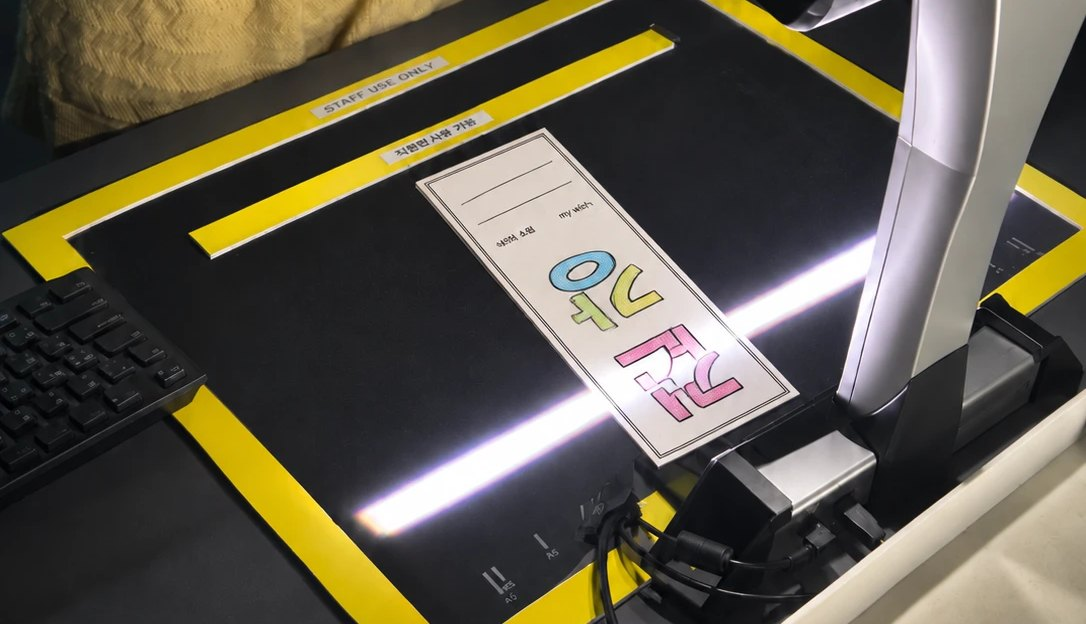
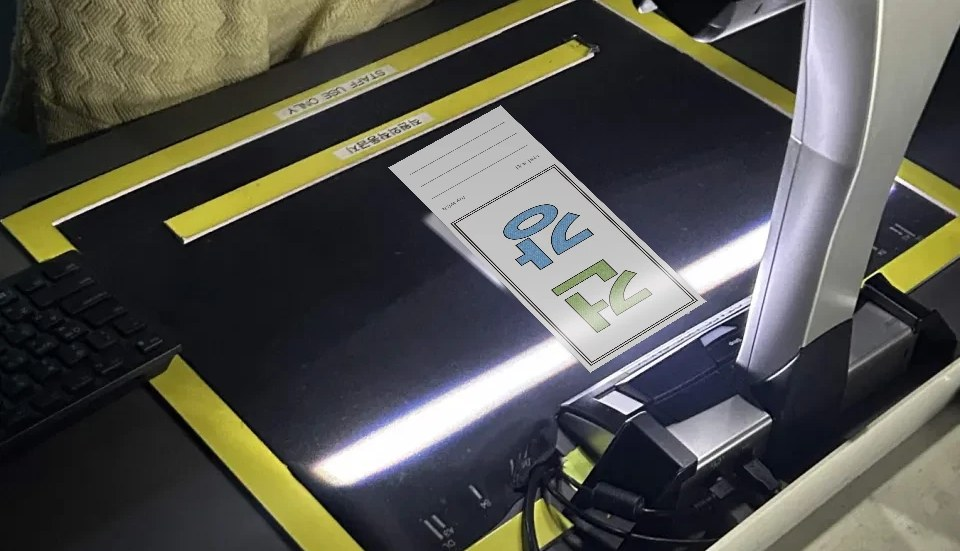
낙화원 스캔 사진 교체

diff --git a/index.html b/index.html
@@ -701,7 +701,7 @@ footer h2{font-size:clamp(40px,6vw,72px);font-weight:700;letter-spacing:-.035em;
     <div class="side">
       <div class="media"><img src="img/nakhwa/hero.jpg?v=3" alt="낙화원 실제 전시 공간"></div>
       <p class="cap">실제 전시 공간 · K-컬처 뮤지엄 3관 · 13.8m × 11.2m × 약 5.8m · 벽면·바닥 프로젝션 · 공간 비주얼 황혜린</p>
-      <div class="media"><img src="img/nakhwa/scan.jpg" alt="소원지 스캔 장면"></div>
+      <div class="media"><img src="img/nakhwa/scan.jpg?v=2" alt="소원지 스캔 장면"></div>
       <p class="cap">소원지 스캔 · 스캔 이미지가 언리얼 엔진으로 실시간 연동된다</p>
     </div>
   <div class="body">
